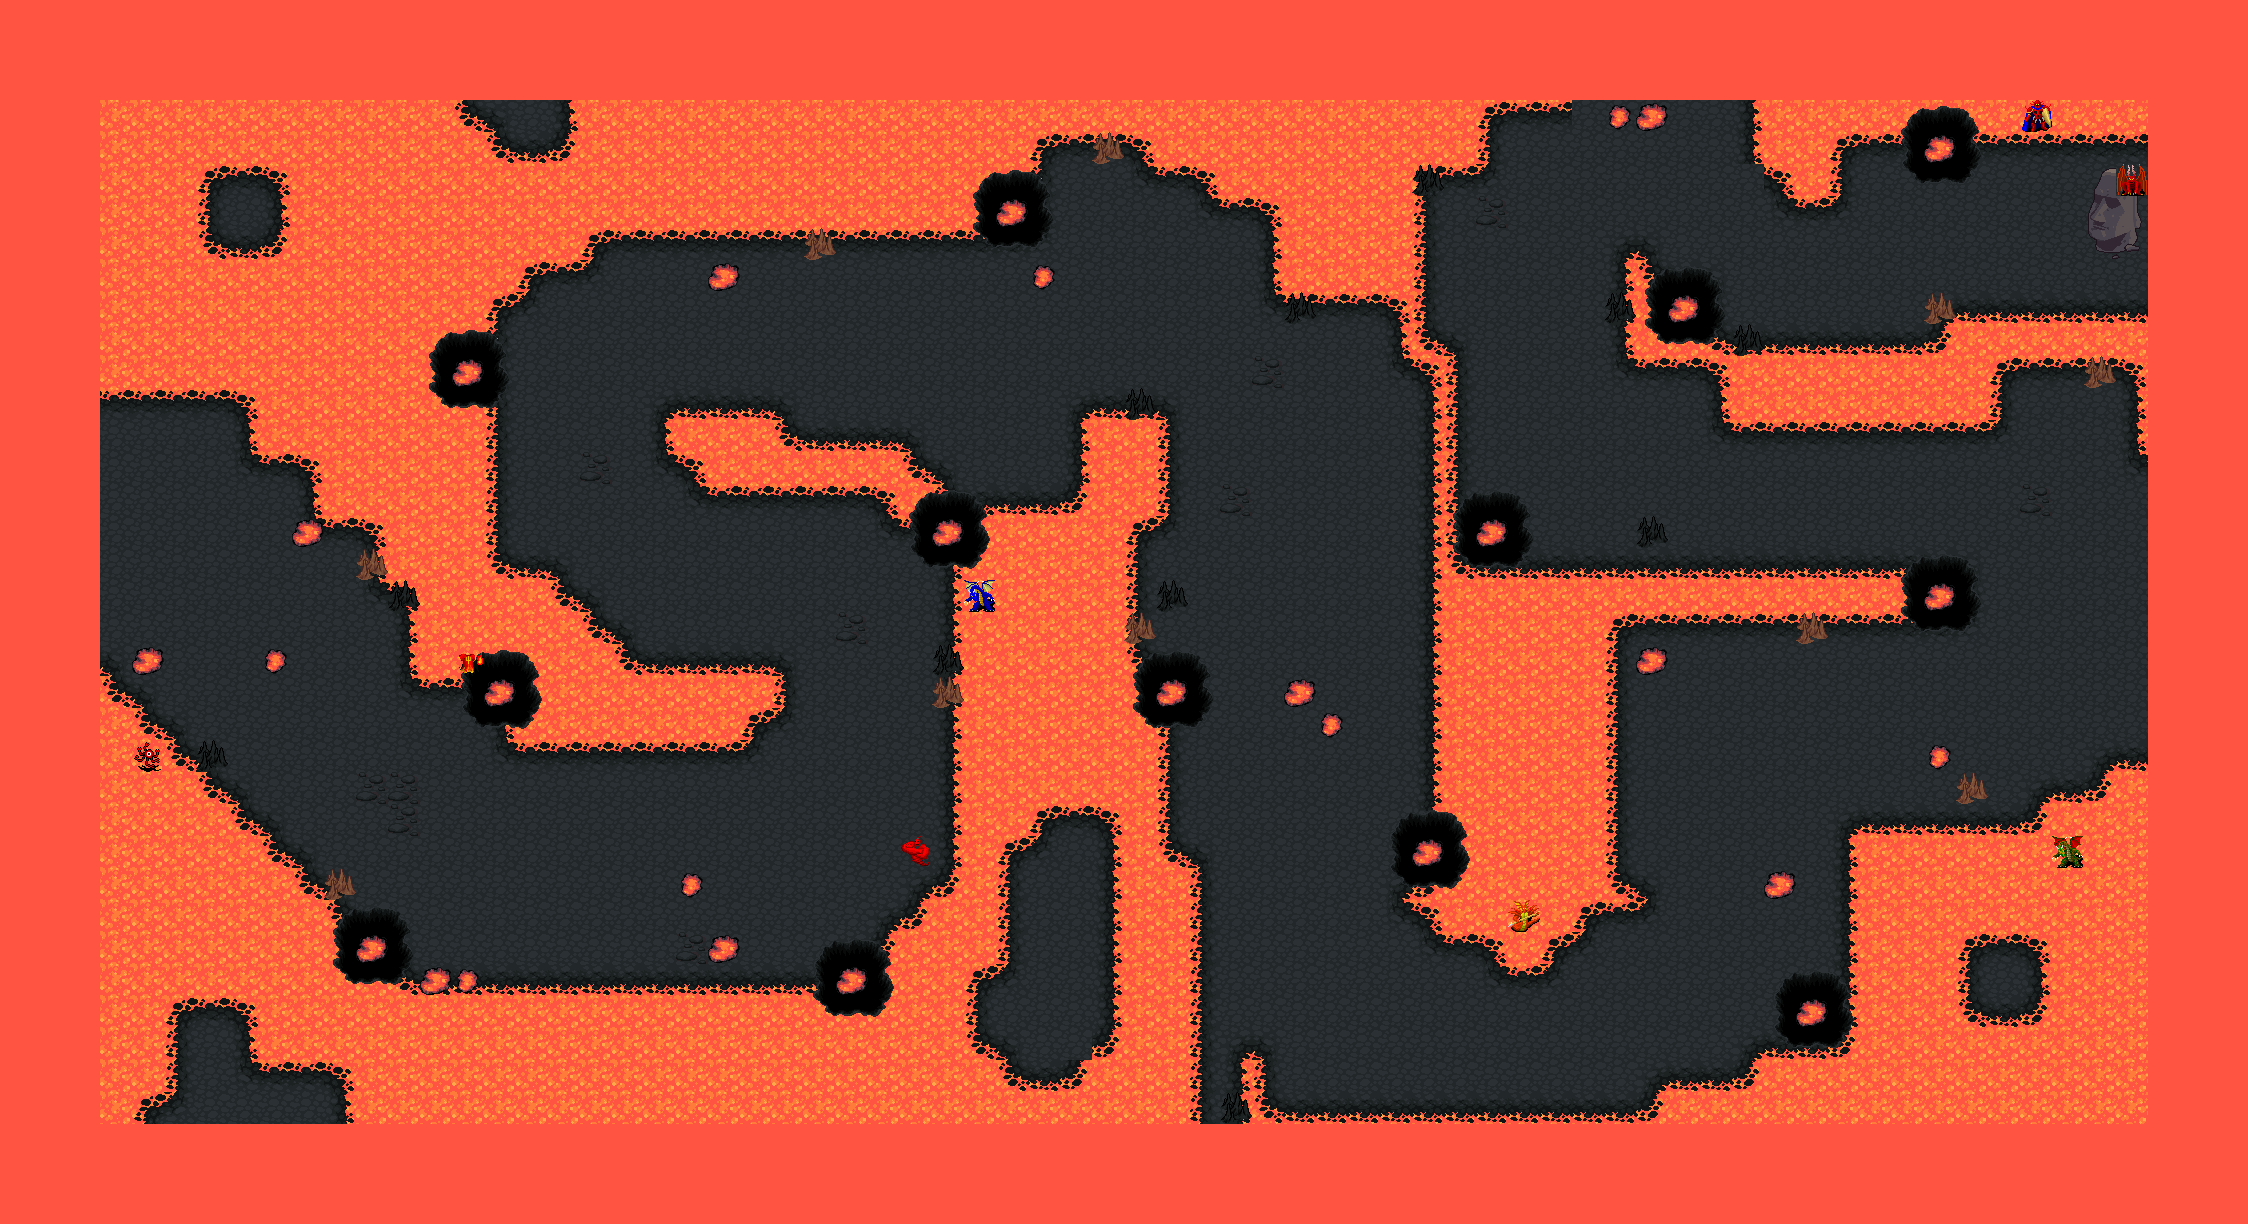
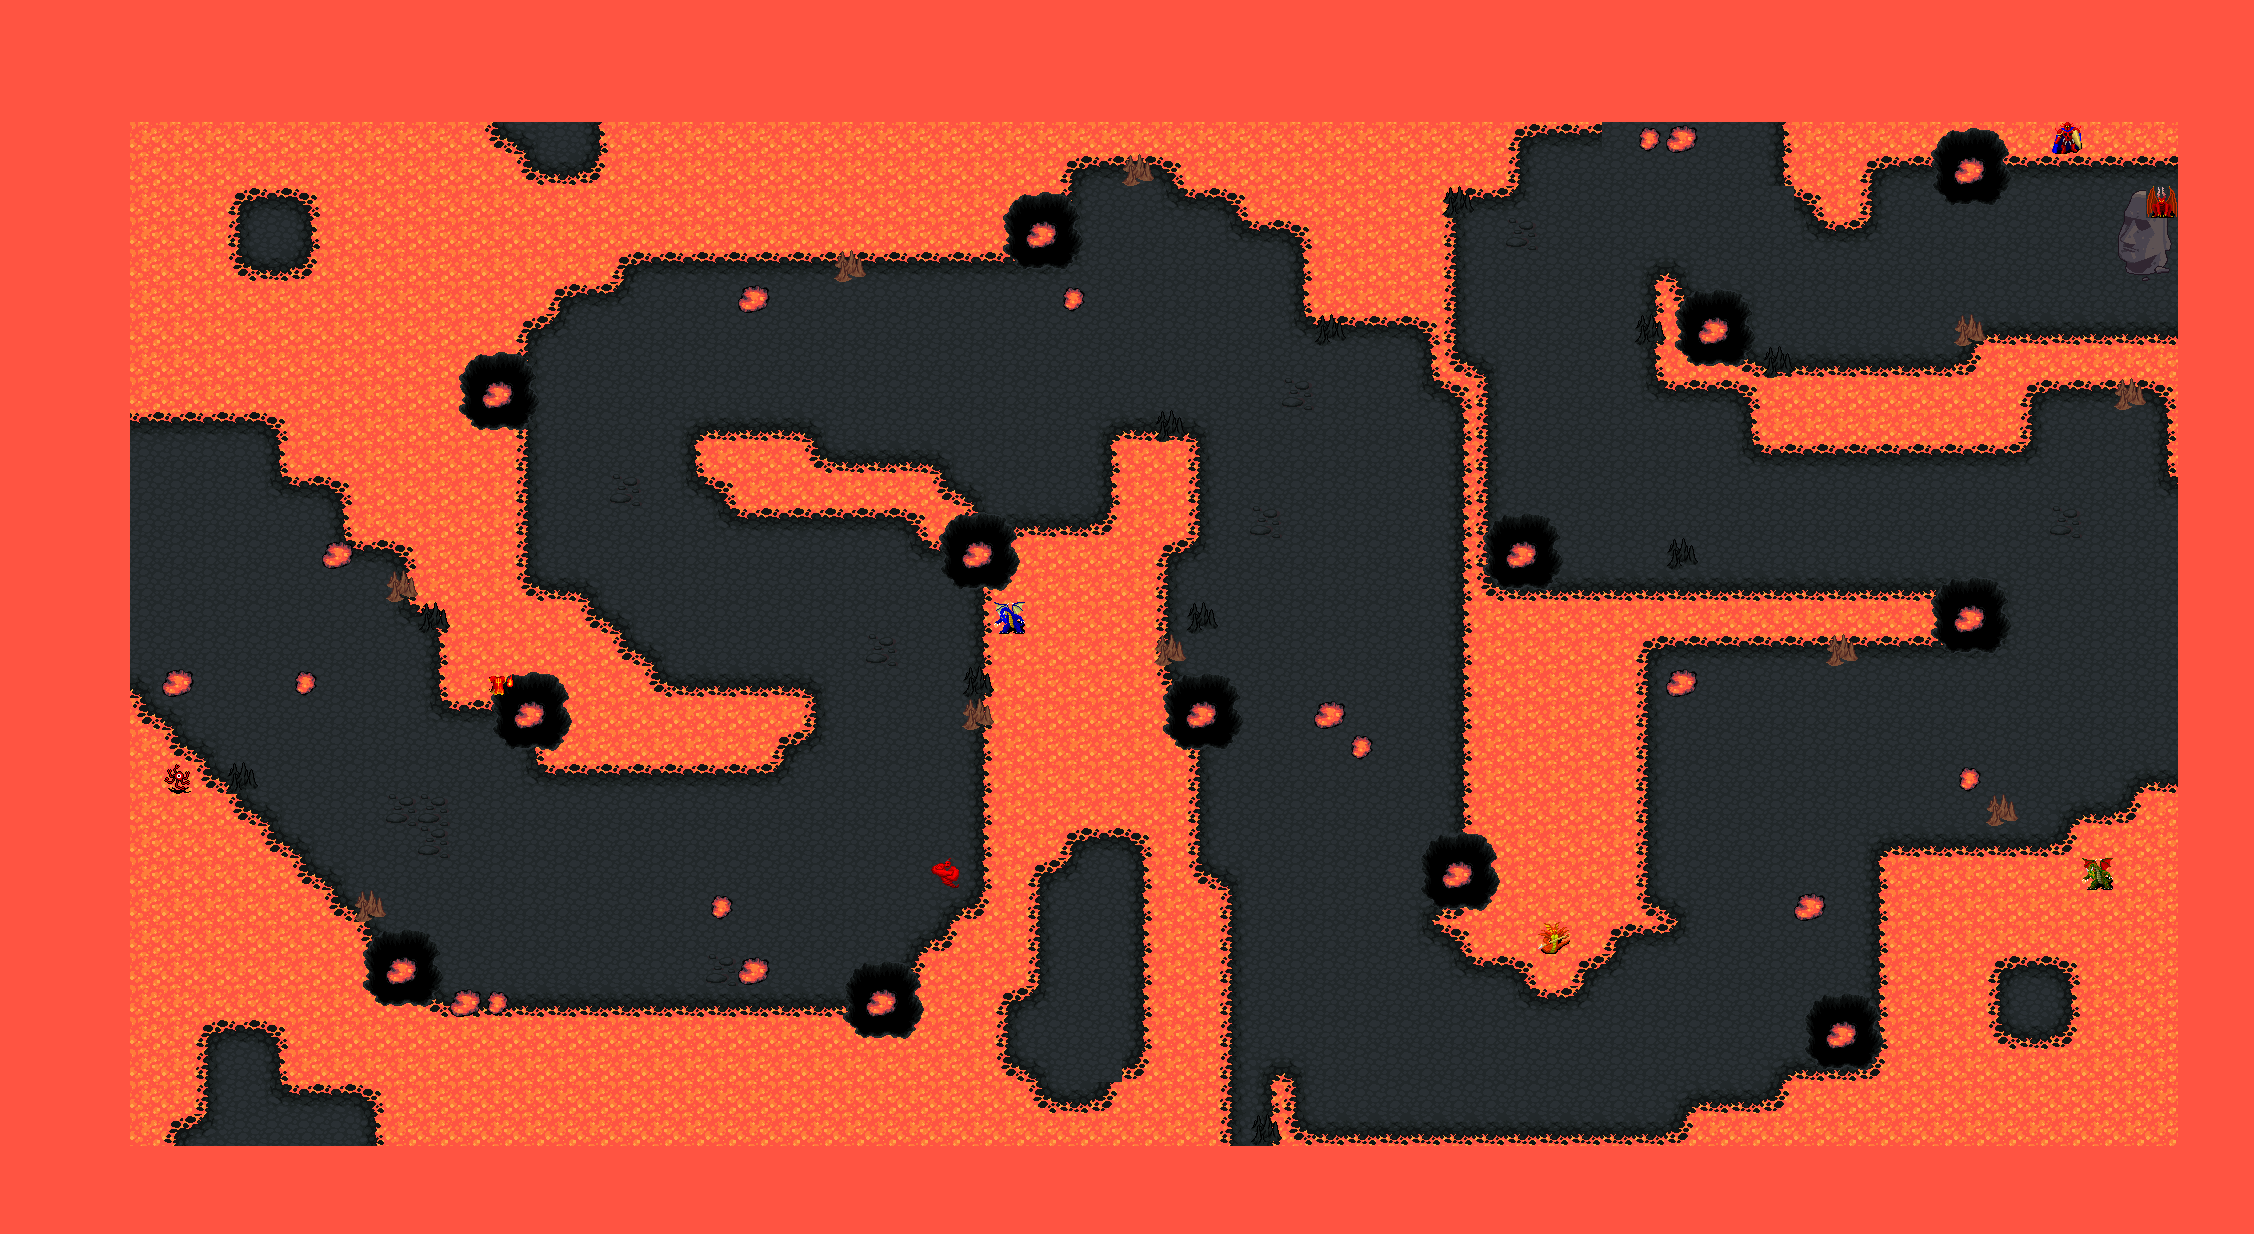
fixed borders.

Changed region(s): [[0.0311, 0.0621, 0.9653, 0.9314]]

diff --git a/win8/game-media/level0.js b/win8/game-media/level0.js
@@ -1,24 +1,24 @@
-var level0 = { "height":16,
+var level0 = { "height":20,
  "layers":[
         {
-         "height":0,
+         "height":20,
          "image":"level0.png",
          "name":"Terrain",
          "opacity":1,
          "type":"imagelayer",
-         "visible":true,
-         "width":0,
+         "visible":false,
+         "width":36,
          "x":0,
          "y":0
         }, 
         {
-         "data":[2, 2, 2, 2, 2, 2, 2, 2, 2, 2, 2, 2, 2, 2, 2, 2, 2, 2, 2, 2, 2, 2, 1, 1, 1, 1, 2, 2, 5, 5, 2, 2, 2, 2, 2, 2, 2, 2, 2, 2, 2, 2, 2, 2, 2, 5, 5, 1, 2, 2, 2, 2, 2, 1, 1, 1, 1, 1, 1, 1, 5, 1, 1, 4, 2, 2, 2, 2, 2, 2, 2, 2, 1, 1, 1, 1, 1, 1, 5, 1, 1, 1, 2, 2, 2, 1, 1, 1, 5, 1, 1, 1, 1, 1, 1, 1, 2, 2, 2, 2, 2, 5, 1, 1, 1, 1, 1, 1, 1, 1, 1, 1, 1, 1, 1, 1, 2, 1, 1, 1, 5, 5, 1, 1, 1, 2, 2, 2, 2, 2, 2, 2, 2, 5, 5, 1, 1, 1, 1, 1, 1, 1, 1, 1, 1, 1, 1, 1, 2, 1, 1, 1, 1, 2, 2, 2, 2, 2, 1, 1, 1, 1, 2, 2, 2, 2, 1, 1, 1, 2, 2, 2, 2, 1, 1, 2, 2, 1, 1, 1, 2, 1, 1, 1, 1, 1, 1, 1, 1, 1, 1, 1, 3, 1, 1, 2, 2, 2, 1, 1, 1, 1, 1, 1, 5, 5, 2, 2, 2, 1, 1, 1, 2, 5, 5, 1, 1, 1, 1, 1, 1, 1, 1, 1, 1, 1, 1, 1, 2, 2, 2, 2, 1, 1, 1, 1, 1, 5, 2, 2, 2, 1, 1, 1, 2, 5, 5, 2, 2, 2, 2, 2, 5, 5, 1, 1, 1, 1, 1, 1, 1, 5, 5, 2, 2, 1, 1, 1, 1, 2, 2, 2, 5, 5, 1, 1, 2, 2, 2, 2, 1, 1, 1, 1, 5, 1, 1, 1, 2, 1, 1, 1, 1, 5, 5, 2, 2, 2, 2, 1, 1, 2, 2, 2, 5, 5, 1, 1, 2, 2, 2, 2, 1, 1, 1, 1, 1, 1, 1, 1, 2, 2, 1, 1, 1, 1, 1, 1, 1, 1, 1, 1, 1, 2, 2, 2, 2, 1, 1, 1, 2, 2, 2, 2, 1, 1, 1, 1, 1, 1, 1, 2, 2, 2, 2, 1, 1, 1, 1, 1, 1, 1, 1, 1, 1, 2, 2, 2, 2, 1, 1, 1, 5, 5, 2, 2, 1, 1, 1, 2, 2, 2, 2, 2, 2, 2, 2, 5, 5, 1, 1, 1, 1, 1, 1, 1, 2, 2, 2, 2, 2, 2, 1, 1, 5, 5, 2, 2, 1, 1, 1, 2, 2, 2, 2, 2, 2, 2, 2, 5, 5, 2, 1, 1, 1, 1, 1, 5, 5, 2, 2, 2, 2, 2, 1, 1, 1, 1, 1, 1, 1, 1, 5, 5, 2, 2, 2, 2, 2, 2, 2, 2, 2, 2, 2, 2, 2, 2, 2, 5, 5, 2, 2, 2, 2, 2, 1, 1, 1, 1, 1, 1, 1, 1, 5, 5, 2, 2, 2, 2, 2, 2, 2, 2, 2, 2, 2, 2, 2, 2, 2, 2, 2, 2, 2, 2, 2, 2, 1, 1, 1, 1, 1, 1, 2, 2, 2, 2, 2, 2, 2, 2],
-         "height":16,
+         "data":[2, 2, 2, 2, 2, 2, 2, 2, 2, 2, 2, 2, 2, 2, 2, 2, 2, 2, 2, 2, 2, 2, 2, 2, 2, 2, 2, 2, 2, 2, 2, 2, 2, 2, 2, 2, 2, 2, 2, 2, 2, 2, 2, 2, 2, 2, 2, 2, 2, 2, 2, 2, 2, 2, 2, 2, 2, 2, 2, 2, 2, 2, 2, 2, 2, 2, 2, 2, 2, 2, 2, 2, 2, 2, 2, 2, 2, 2, 2, 2, 2, 2, 2, 2, 2, 2, 2, 2, 2, 2, 2, 2, 2, 2, 2, 2, 1, 1, 1, 1, 2, 2, 5, 5, 2, 2, 2, 2, 2, 2, 2, 2, 2, 2, 2, 2, 2, 2, 2, 2, 2, 2, 2, 5, 5, 1, 2, 2, 2, 2, 2, 1, 1, 1, 1, 1, 1, 1, 5, 1, 1, 4, 2, 2, 2, 2, 2, 2, 2, 2, 2, 2, 2, 2, 1, 1, 1, 1, 1, 1, 5, 1, 1, 1, 2, 2, 2, 1, 1, 1, 5, 1, 1, 1, 1, 1, 1, 1, 2, 2, 2, 2, 2, 2, 2, 2, 2, 5, 1, 1, 1, 1, 1, 1, 1, 1, 1, 1, 1, 1, 1, 1, 2, 1, 1, 1, 5, 5, 1, 1, 1, 2, 2, 2, 2, 2, 2, 2, 2, 2, 2, 2, 2, 5, 5, 1, 1, 1, 1, 1, 1, 1, 1, 1, 1, 1, 1, 1, 2, 1, 1, 1, 1, 2, 2, 2, 2, 2, 1, 1, 2, 2, 2, 2, 1, 1, 2, 2, 2, 2, 1, 1, 1, 2, 2, 2, 2, 1, 1, 2, 2, 1, 1, 1, 2, 1, 1, 1, 1, 1, 1, 1, 1, 1, 1, 1, 2, 2, 2, 2, 3, 1, 1, 2, 2, 2, 1, 1, 1, 1, 1, 1, 5, 5, 2, 2, 2, 1, 1, 1, 2, 5, 5, 1, 1, 1, 1, 1, 1, 1, 1, 1, 2, 2, 2, 2, 1, 1, 1, 1, 2, 2, 2, 2, 1, 1, 1, 1, 1, 5, 2, 2, 2, 1, 1, 1, 2, 5, 5, 2, 2, 2, 2, 2, 5, 5, 1, 1, 2, 2, 2, 2, 1, 1, 1, 1, 1, 5, 5, 2, 2, 1, 1, 1, 1, 2, 2, 2, 5, 5, 1, 1, 2, 2, 2, 2, 1, 1, 1, 1, 5, 1, 1, 1, 2, 2, 2, 2, 2, 1, 1, 1, 1, 5, 5, 2, 2, 2, 2, 1, 1, 2, 2, 2, 5, 5, 1, 1, 2, 2, 2, 2, 1, 1, 1, 1, 1, 1, 1, 1, 2, 2, 2, 2, 2, 2, 1, 1, 1, 1, 1, 1, 1, 1, 1, 1, 1, 2, 2, 2, 2, 1, 1, 1, 2, 2, 2, 2, 1, 1, 1, 1, 1, 1, 1, 2, 2, 2, 2, 2, 2, 2, 2, 1, 1, 1, 1, 1, 1, 1, 1, 1, 1, 2, 2, 2, 2, 1, 1, 1, 5, 5, 2, 2, 1, 1, 1, 2, 2, 2, 2, 2, 2, 2, 2, 2, 2, 2, 2, 5, 5, 1, 1, 1, 1, 1, 1, 1, 2, 2, 2, 2, 2, 2, 1, 1, 5, 5, 2, 2, 1, 1, 1, 2, 2, 2, 2, 2, 2, 2, 2, 2, 2, 2, 2, 5, 5, 2, 1, 1, 1, 1, 1, 5, 5, 2, 2, 2, 2, 2, 1, 1, 1, 1, 1, 1, 1, 1, 5, 5, 2, 2, 2, 2, 2, 2, 2, 2, 2, 2, 2, 2, 2, 2, 2, 2, 2, 2, 2, 5, 5, 2, 2, 2, 2, 2, 1, 1, 1, 1, 1, 1, 1, 1, 5, 5, 2, 2, 2, 2, 2, 2, 2, 2, 2, 2, 2, 2, 2, 2, 2, 2, 2, 2, 2, 2, 2, 2, 2, 2, 2, 2, 1, 1, 1, 1, 1, 1, 2, 2, 2, 2, 2, 2, 2, 2, 2, 2, 2, 2, 2, 2, 2, 2, 2, 2, 2, 2, 2, 2, 2, 2, 2, 2, 2, 2, 2, 2, 2, 2, 2, 2, 2, 2, 2, 2, 2, 2, 2, 2, 2, 2, 2, 2, 2, 2, 2, 2, 2, 2, 2, 2, 2, 2, 2, 2, 2, 2, 2, 2, 2, 2, 2, 2, 2, 2, 2, 2, 2, 2, 2, 2, 2, 2, 2, 2, 2, 2, 2, 2],
+         "height":20,
          "name":"AI",
          "opacity":1,
          "type":"tilelayer",
          "visible":true,
-         "width":32,
+         "width":36,
          "x":0,
          "y":0
         }],
@@ -44,8 +44,23 @@
          "spacing":0,
          "tileheight":64,
          "tilewidth":64
+        }, 
+        {
+         "firstgid":17,
+         "image":"terrain_atlas.png",
+         "imageheight":1024,
+         "imagewidth":1024,
+         "margin":0,
+         "name":"terrain_atlas",
+         "properties":
+            {
+
+            },
+         "spacing":0,
+         "tileheight":32,
+         "tilewidth":32
         }],
  "tilewidth":64,
  "version":1,
- "width":32
+ "width":36
 }

diff --git a/win8/bin/Debug/AppX/game-media/level0.js b/win8/bin/Debug/AppX/game-media/level0.js
@@ -1,18 +1,18 @@
 var level0 = { "height":16,
  "layers":[
         {
-         "height":16,
+         "height":0,
          "image":"level0.png",
          "name":"Terrain",
          "opacity":1,
          "type":"imagelayer",
-         "visible":false,
-         "width":32,
+         "visible":true,
+         "width":0,
          "x":0,
          "y":0
         }, 
         {
-         "data":[2, 2, 2, 2, 2, 2, 2, 2, 2, 2, 2, 2, 2, 2, 2, 2, 2, 2, 2, 2, 2, 2, 1, 1, 1, 1, 2, 2, 5, 2, 2, 2, 2, 2, 2, 2, 2, 2, 2, 2, 2, 2, 2, 2, 2, 2, 5, 1, 2, 2, 2, 2, 2, 1, 1, 1, 1, 1, 1, 1, 1, 1, 1, 4, 2, 2, 2, 2, 2, 2, 2, 2, 1, 1, 1, 1, 1, 1, 1, 1, 1, 1, 2, 2, 2, 1, 1, 1, 1, 1, 1, 1, 1, 1, 1, 1, 2, 2, 2, 2, 2, 2, 1, 1, 1, 1, 1, 1, 1, 1, 1, 1, 1, 1, 1, 1, 2, 1, 1, 1, 5, 1, 1, 1, 1, 2, 2, 2, 2, 2, 2, 2, 2, 5, 1, 1, 1, 1, 1, 1, 1, 1, 1, 1, 1, 1, 1, 1, 2, 1, 1, 1, 1, 2, 2, 2, 2, 2, 2, 2, 2, 1, 2, 2, 2, 2, 1, 1, 1, 2, 2, 2, 2, 1, 1, 2, 2, 1, 1, 1, 2, 1, 1, 1, 1, 1, 1, 1, 1, 1, 1, 1, 3, 1, 1, 2, 2, 2, 1, 1, 1, 1, 1, 1, 2, 5, 2, 2, 2, 1, 1, 1, 2, 5, 2, 1, 1, 1, 1, 1, 1, 1, 1, 1, 1, 1, 1, 1, 2, 2, 2, 2, 1, 1, 1, 1, 1, 2, 2, 2, 2, 1, 1, 1, 2, 2, 2, 2, 2, 2, 2, 2, 5, 2, 1, 1, 1, 1, 1, 1, 1, 2, 2, 2, 2, 1, 1, 1, 1, 2, 2, 2, 2, 2, 1, 1, 2, 2, 2, 2, 1, 1, 1, 1, 2, 2, 1, 1, 2, 1, 1, 1, 1, 2, 5, 2, 2, 2, 2, 1, 1, 2, 2, 2, 5, 2, 1, 1, 2, 2, 2, 2, 1, 1, 1, 1, 1, 1, 1, 1, 2, 2, 1, 1, 1, 1, 1, 1, 1, 1, 1, 1, 1, 2, 2, 2, 2, 1, 1, 1, 2, 2, 2, 2, 1, 1, 1, 1, 1, 1, 1, 2, 2, 2, 2, 1, 1, 1, 1, 1, 1, 1, 1, 1, 1, 2, 2, 2, 2, 1, 1, 1, 5, 2, 2, 2, 1, 1, 1, 2, 2, 2, 2, 2, 2, 2, 2, 2, 2, 1, 1, 1, 1, 1, 1, 1, 2, 2, 2, 2, 2, 2, 1, 1, 2, 2, 2, 2, 1, 1, 1, 2, 2, 2, 2, 2, 2, 2, 2, 2, 5, 2, 1, 1, 1, 1, 1, 5, 2, 2, 2, 2, 2, 2, 1, 1, 1, 2, 2, 1, 1, 1, 2, 2, 2, 2, 2, 2, 2, 2, 2, 2, 2, 2, 2, 2, 2, 2, 2, 2, 2, 2, 2, 2, 2, 2, 1, 1, 1, 1, 1, 1, 1, 1, 5, 2, 2, 2, 2, 2, 2, 2, 2, 2, 2, 2, 2, 2, 2, 2, 2, 2, 2, 2, 2, 2, 2, 2, 1, 1, 1, 1, 1, 1, 2, 2, 2, 2, 2, 2, 2, 2],
+         "data":[2, 2, 2, 2, 2, 2, 2, 2, 2, 2, 2, 2, 2, 2, 2, 2, 2, 2, 2, 2, 2, 2, 1, 1, 1, 1, 2, 2, 5, 5, 2, 2, 2, 2, 2, 2, 2, 2, 2, 2, 2, 2, 2, 2, 2, 5, 5, 1, 2, 2, 2, 2, 2, 1, 1, 1, 1, 1, 1, 1, 5, 1, 1, 4, 2, 2, 2, 2, 2, 2, 2, 2, 1, 1, 1, 1, 1, 1, 5, 1, 1, 1, 2, 2, 2, 1, 1, 1, 5, 1, 1, 1, 1, 1, 1, 1, 2, 2, 2, 2, 2, 5, 1, 1, 1, 1, 1, 1, 1, 1, 1, 1, 1, 1, 1, 1, 2, 1, 1, 1, 5, 5, 1, 1, 1, 2, 2, 2, 2, 2, 2, 2, 2, 5, 5, 1, 1, 1, 1, 1, 1, 1, 1, 1, 1, 1, 1, 1, 2, 1, 1, 1, 1, 2, 2, 2, 2, 2, 1, 1, 1, 1, 2, 2, 2, 2, 1, 1, 1, 2, 2, 2, 2, 1, 1, 2, 2, 1, 1, 1, 2, 1, 1, 1, 1, 1, 1, 1, 1, 1, 1, 1, 3, 1, 1, 2, 2, 2, 1, 1, 1, 1, 1, 1, 5, 5, 2, 2, 2, 1, 1, 1, 2, 5, 5, 1, 1, 1, 1, 1, 1, 1, 1, 1, 1, 1, 1, 1, 2, 2, 2, 2, 1, 1, 1, 1, 1, 5, 2, 2, 2, 1, 1, 1, 2, 5, 5, 2, 2, 2, 2, 2, 5, 5, 1, 1, 1, 1, 1, 1, 1, 5, 5, 2, 2, 1, 1, 1, 1, 2, 2, 2, 5, 5, 1, 1, 2, 2, 2, 2, 1, 1, 1, 1, 5, 1, 1, 1, 2, 1, 1, 1, 1, 5, 5, 2, 2, 2, 2, 1, 1, 2, 2, 2, 5, 5, 1, 1, 2, 2, 2, 2, 1, 1, 1, 1, 1, 1, 1, 1, 2, 2, 1, 1, 1, 1, 1, 1, 1, 1, 1, 1, 1, 2, 2, 2, 2, 1, 1, 1, 2, 2, 2, 2, 1, 1, 1, 1, 1, 1, 1, 2, 2, 2, 2, 1, 1, 1, 1, 1, 1, 1, 1, 1, 1, 2, 2, 2, 2, 1, 1, 1, 5, 5, 2, 2, 1, 1, 1, 2, 2, 2, 2, 2, 2, 2, 2, 5, 5, 1, 1, 1, 1, 1, 1, 1, 2, 2, 2, 2, 2, 2, 1, 1, 5, 5, 2, 2, 1, 1, 1, 2, 2, 2, 2, 2, 2, 2, 2, 5, 5, 2, 1, 1, 1, 1, 1, 5, 5, 2, 2, 2, 2, 2, 1, 1, 1, 1, 1, 1, 1, 1, 5, 5, 2, 2, 2, 2, 2, 2, 2, 2, 2, 2, 2, 2, 2, 2, 2, 5, 5, 2, 2, 2, 2, 2, 1, 1, 1, 1, 1, 1, 1, 1, 5, 5, 2, 2, 2, 2, 2, 2, 2, 2, 2, 2, 2, 2, 2, 2, 2, 2, 2, 2, 2, 2, 2, 2, 1, 1, 1, 1, 1, 1, 2, 2, 2, 2, 2, 2, 2, 2],
          "height":16,
          "name":"AI",
          "opacity":1,
